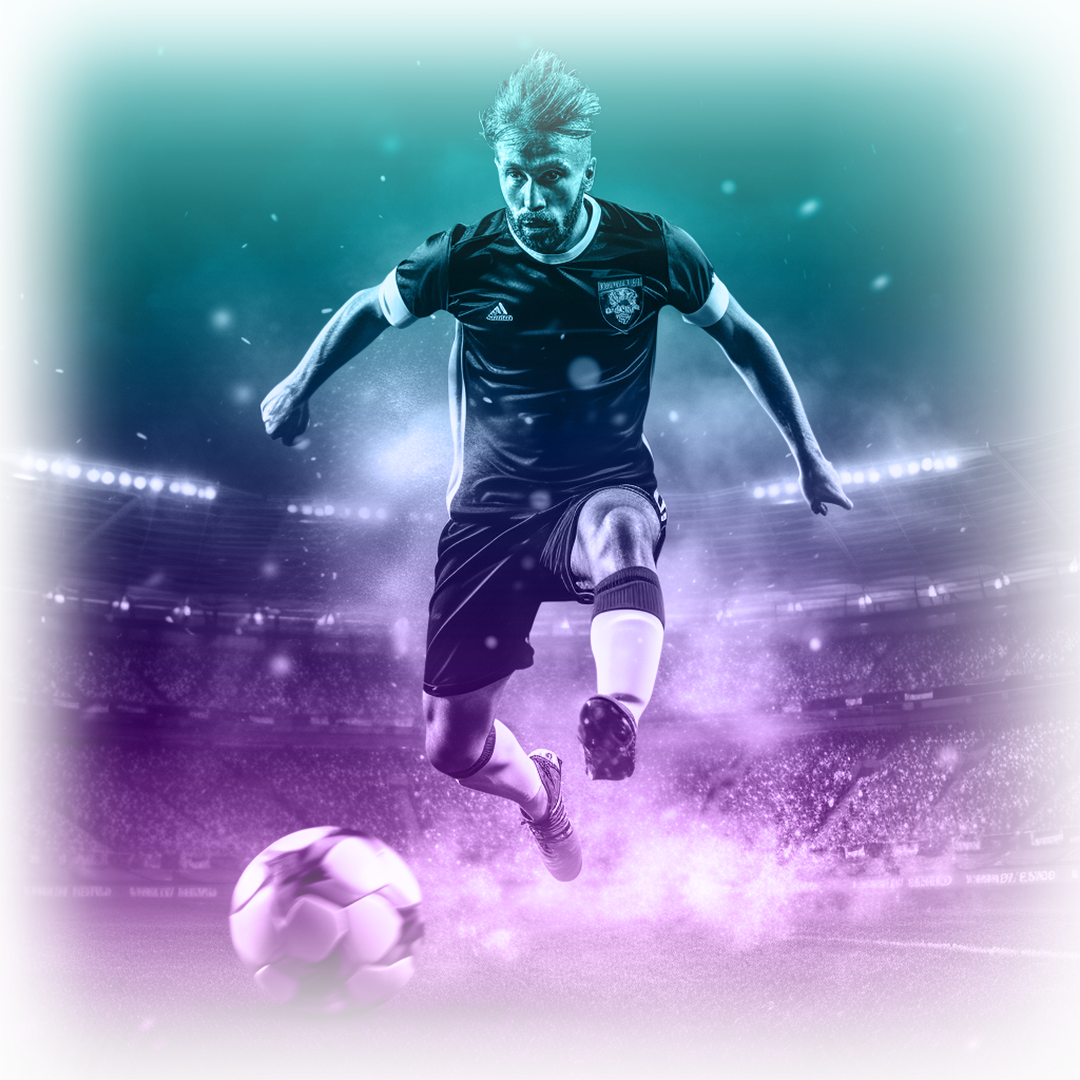
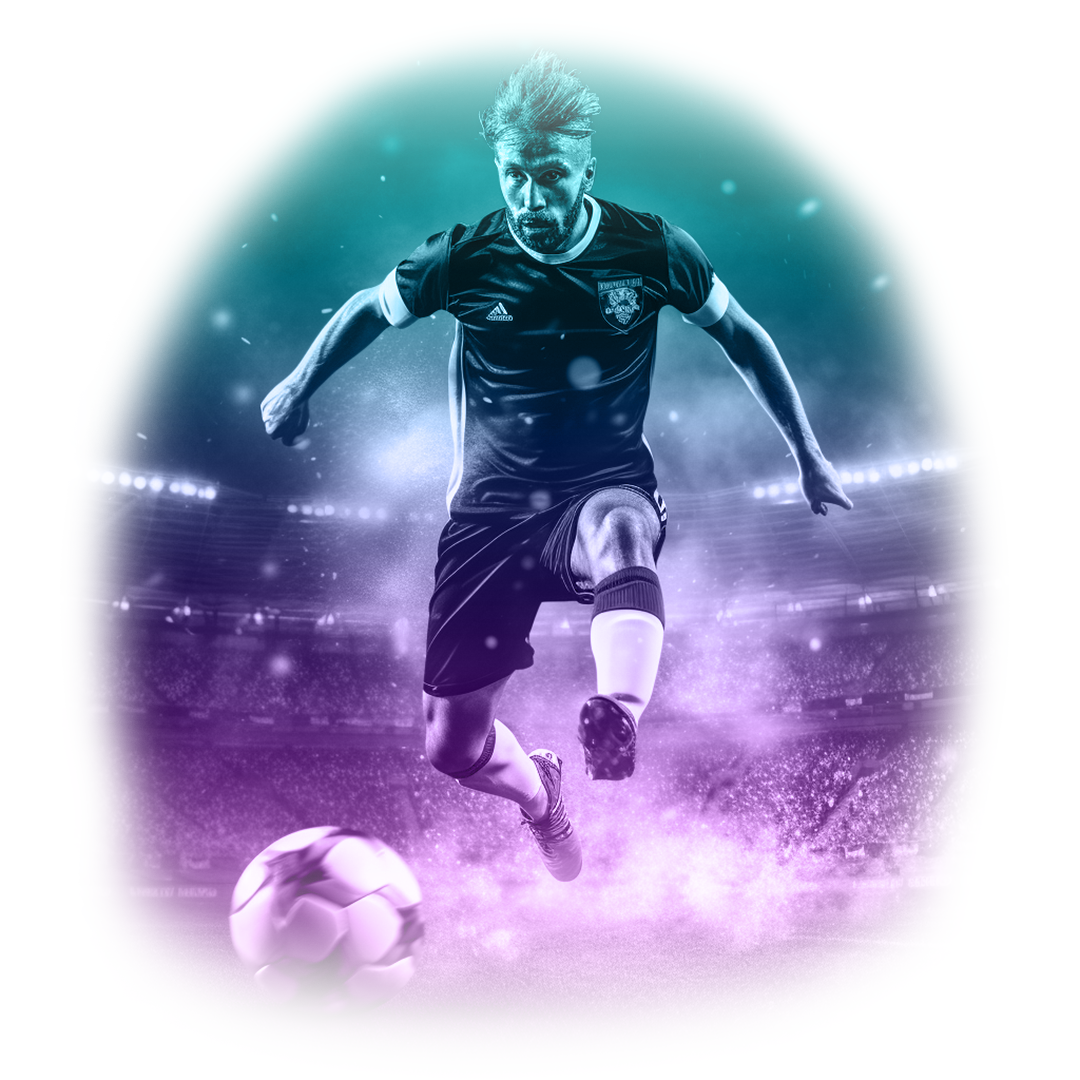
new push

diff --git a/src/components/Test.jsx b/src/components/Test.jsx
@@ -2,33 +2,73 @@ import React from "react";
 
 function Test() {
   return (
-    <section className=" relative  w-full  h-full">
-      <img src="images/top-b.png" alt="" className=" top-0 absolute hidden sm:block w-full h-[100px]  " />
-      <img src="images/black-b.png" alt="" className=" bottom-0 absolute hidden sm:block h-[120px] w-full  " />
+    <section className=" relative  w-full  h-full mt-8 sm:mt-8">
       <div className="container-wrapper">
-        <div className="flex justify-between sm:gap-5 items-center flex-col sm:flex-row h-full w-full">
-          <div className="w-full  h-full">
-            <img src="images/test-img.png" alt="" />
-          </div>
-          <div className="bg-grad3 w-auto lg:w-auto  p-[2px] m-2 sm:ml-11 sm:mt-[7%] mt-2   ">
-            <div className="bg-sec h-full relative z-20">
-              <h1 className=" text-4xl font-extrabold py-3">TEST DURATION</h1>
-              <h3 className="text-xl font-bold py-2">
-                KiX Trade-athon starts on Friday 10th November.
-              </h3>
-              <p className=" text-sm font-semibold mb-3">
-                Entrants into the Trade-athon can join at any time before or
-                after that date and will qualify for 1000 $FreeKiX after
-                completing registration.
-              </p>
-              <p className=" text-sm font-semibold mb-8">
-                Entrants can build their chances of winning a share of the prize
-                fund by completing tasks set on the KiX Zealy platform which
-                opens on Wednesday 24th October.
-              </p>
+        <div className=" text-center">
+          <h1 className="text-2xl sm:text-4xl font-extrabold text pt-4  sm:pt-8 pb-7">
+            TRADE-ATHON TIMINGS
+          </h1>
+        </div>
+        <div className="bg-grad3  p-[2px] ">
+          <div className="bg-sec">
+        
+            <div class="w-full mx-auto table-1">
+              <table class="w-full">
+                <tbody>
+                  <tr className=" py-4 my-4 flex flex-col flex-no wrap sm:table-row">
+                    <td class="py-2 px-4 w-[350px]">
+                      {" "}
+                      <h1 className="text-[22px] font-normal text-center">
+                        Tue 23 October
+                      </h1>
+                    </td>
+                    <td class="py-2 px-4">
+                      <div className="text-[22px] font-normal max-w-2xl mb-4">
+                        <p>
+                          Onboarding - directly on KiX Test Site or through
+                          Zealy
+                        </p>
+                        <p> 1,000 FreeKiX for all completing registration</p>
+                        <p>Practice Trading available</p>
+                        <p>100,000 $KiX Zealy Quest Prize Fund active</p>
+                      </div>
+                    </td>
+                  </tr>
+                  <tr className="flex flex-col flex-no wrap sm:table-row">
+                    <td class="py-2 px-4">
+                      <h1 className="text-[22px] font-normal text-center">
+                        Wed 8 November
+                      </h1>
+                    </td>
+                    <td class="py-2 px-4">
+                      {" "}
+                      <div className="text-[22px] font-normal max-w-xl mb-4">
+                        <p>All Practice Trades reset</p>
+                        <p> 1,000 FreeKiX reset in all wallets</p>
+                      </div>
+                    </td>
+                  </tr>
 
-              <p className="text-[#FFC200] text-xl">Terms & Conditions</p>
+                  <tr className="flex flex-col flex-no wrap sm:table-row">
+                    <td class="py-2 px-4">
+                    <h1 className="text-[22px] font-normal text-center">Fri 10 November</h1>
+                    </td>
+                    <td class="py-2 px-4">
+                      {" "}
+                      <div className="text-[22px] font-normal max-w-xl mb-4">
+                <p>KiX Trade-athon Begins</p>
+                <p>Live Trading & Game Group Winnings</p>
+                <p> 900,000 $KiX Trading Prize Fund active</p>
+                <p>1,000,000 $KiX Zealy Quest Prize Fund continues</p>
+              </div>
+                    </td>
+                  </tr>
+                </tbody>
+              </table>
             </div>
+            <p className="text-[#FFC200] text-xl text-center">
+              Terms & Conditions
+            </p>
           </div>
         </div>
       </div>

diff --git a/src/index.css b/src/index.css
@@ -132,6 +132,29 @@ padding: 20px;
 width: 100%;
 background: rgba(41, 41, 41, 0.932);
 }
+
+.border-gradient1 {
+  border: 3px solid;
+  border-image-slice: 1;
+  border-width: 3px;
+  border-radius: 30px;
+}
+.border-color-grad {
+  border-image-source:linear-gradient(
+    90deg,
+    rgba(126, 0, 123, 0.44) 0.52%,
+    rgba(95, 43, 135, 0.41) 23.2%,
+    rgba(64, 86, 147, 0.44) 50.3%,
+    rgba(33, 129, 159, 0.44) 73.91%,
+    rgba(2, 172, 171, 0.44) 97.81%
+    
+  );
+}
+
+.table-1{
+  padding: 10px 8%;
+  margin-left: 3rem;
+}
 .test-bg{
 background-image: url('/public/images/test-mg.png');
 background-size: cover;
@@ -154,5 +177,9 @@ height: 60vh;
     background-position: center;
     background-repeat: no-repeat;
      
+    }
+    .table-1{
+      padding: 0px;
+      margin-left: 0rem;
     }
 }

diff --git a/src/components/Footbal.jsx b/src/components/Footbal.jsx
@@ -2,14 +2,16 @@ import React from 'react'
 
 function Footbal() {
   return (
-    <section className='football-bg'>
-        <div className='container-wrapper'>
-            <div className='flex justify-between items-end '>
-                <img src="images/hero-up.png" alt="" className='mx-auto mt-[7%]' />
-
-            </div>
+    <section className=' -mt-[5rem]'>
+      <div className='relative -z-[2]'>
+        <div className='center-div2 top-[58%]'>
+          <img src="images/hero-up.png" alt="" />
 
         </div>
+      <img src="images/football-stad.png" alt="" className='w-full h-[100%]'/>
+      </div>
+      
+        
     </section>
   )
 }
